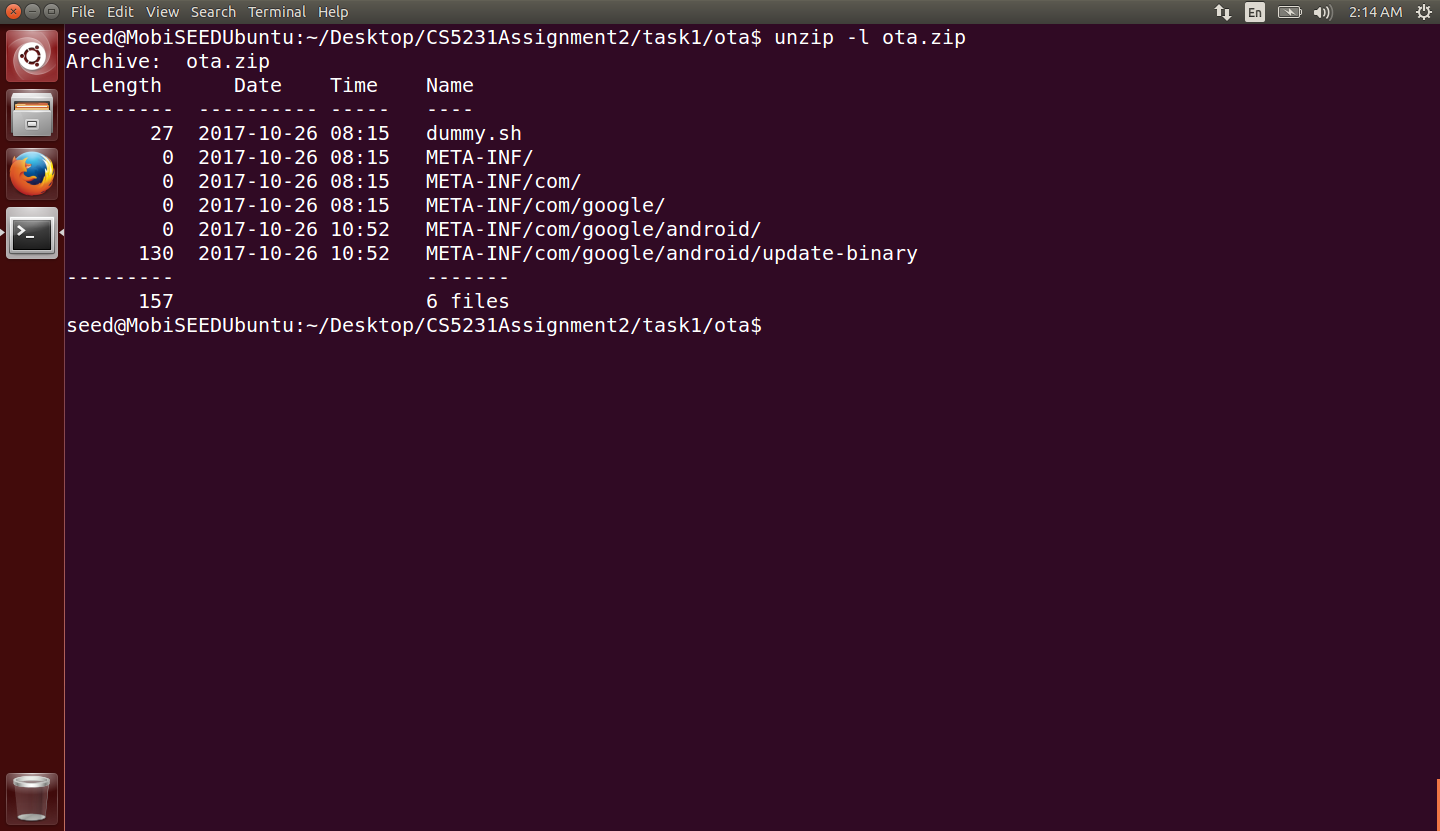
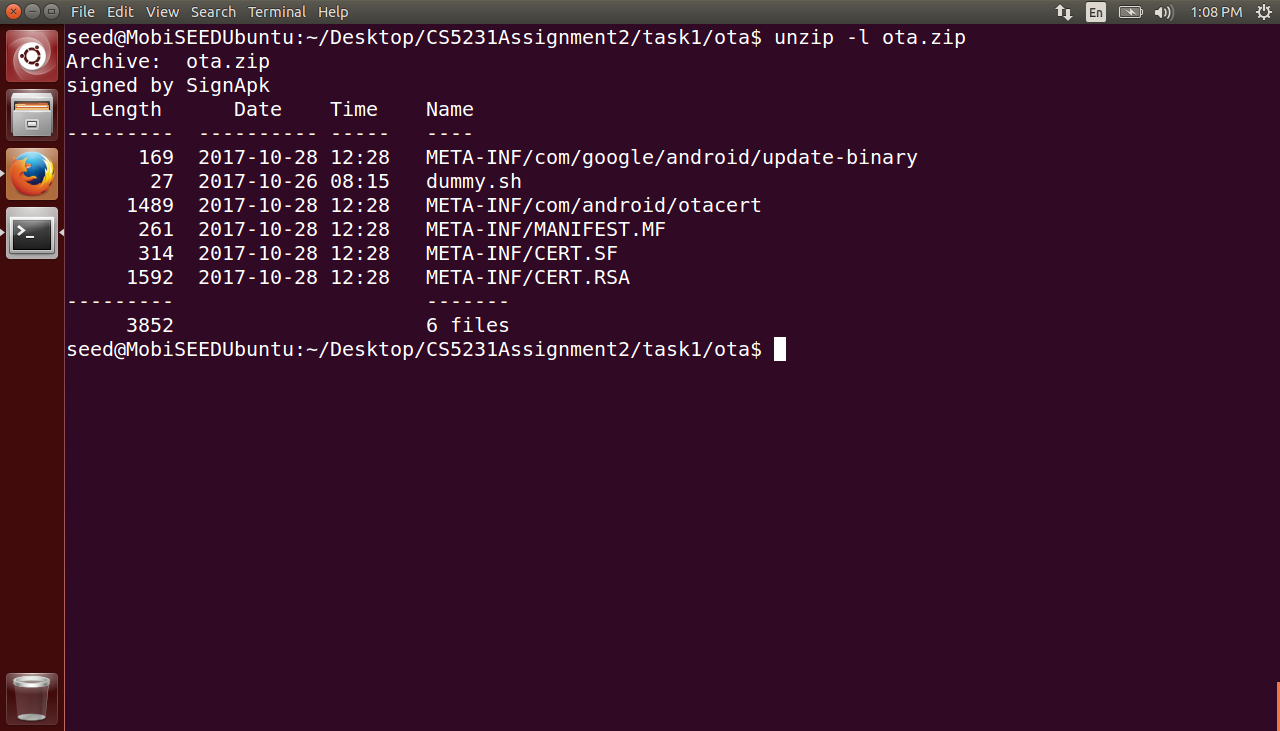
done task 2 and 3 report

Changed region(s): [[0.0, 0.0, 0.7812, 1.0], [0.8125, 0.0, 1.0, 0.0301]]

diff --git a/tanyiyan-a0127051-cs5231-assignment-2-report.md b/tanyiyan-a0127051-cs5231-assignment-2-report.md
@@ -21,20 +21,23 @@ In addition, the state of the bootloader may also be different. In an actual And
 
 > Identify which component in the signature verification process is problematic and explain why is it so. (10 Marks)
 
+https://source.android.com/devices/tech/ota/sign_builds
+
+> Update packages received from the main system are typically verified twice: once by the main system, using the RecoverySystem.verifyPackage() method in the android API, and then again by recovery. The RecoverySystem API checks the signature against public keys stored in the main system, in the file /system/etc/security/otacerts.zip (by default). Recovery checks the signature against public keys stored in the recovery partition RAM disk, in the file /res/keys.
+
+one of the checks not working?
+scp?
+
 ### Verifying our custom OTA file
 
 > Show and explain how the OTA update service can be made to verify our custom ota file.
 
 ### Structure of OTA file
 
-> **NOTE: may change after doing signature verification.** Show the structure of OTA file.
-
 ![](task1.3_ota_file_structure.png)
 *Figure 1. Structure of OTA file in task 1*
 
 ### Dummy file within the Android system
-
-> Show that the dummy file is created within the Android system.
 
 ![](task1.4_dummy_file.png)
 *Figure 2. dummy file created within Android system for task 1*
@@ -42,8 +45,6 @@ In addition, the state of the bootloader may also be different. In an actual And
 ## Task 2
 
 ### Structure of OTA file
-
-> **NOTE: may change after doing signature verification.** Show the structure of OTA file.
 
 ![](task2.1_ota_file_structure.png)
 *Figure 3. Structure of OTA file in task 2*
@@ -53,24 +54,26 @@ In addition, the state of the bootloader may also be different. In an actual And
 ![](task2.2_dummy2_file.png)
 *Figure 4. dummy2 file created within Android system for task 2*
 
-### Differences between the dummy files are created in Task 1 and 2
+### Differences between the dummy files created in Task 1 and 2
 
-- file permissions
-- when it is created?? init vs app_process
-- contents LOL
+One difference between the dummy files created in Task 1 and 2 is when they are created. In task 1, the `dummy` file is created when the file `/system/etc/init.sh` is executed. In the `init.sh`, a command to run `dummy.sh` was added by me (via the OTA's update-binary using `sed`) and when this command to run `dummy.sh` is executed, the `dummy` file is created. On the other hand, the `dummy2` file is created when my wrapper program for `app_process` is executed (when the Android OS bootstraps its runtime). The wrapper program creates the `dummy2` file and then invokes the original `app_process` (which was renamed to `app_process_original`).
+
+Another difference between the dummy files is their permissions. For `dummy` that is created in task 1, the permissions is `-rw-rw-rw-`, as seen in Figure 2. In contrast, the permissions for `dummy2` in task 2 is `-rw-------`.  
+
+In addition, one trivial difference between the dummy files is their contents. `dummy` in task 1 contains "hello" whereas `dummy2` in task 2 is an empty file. 
 
 ## Task 3
 
 ### The root shell
 
-> Show that root shell can be obtained.
+After starting the client program `mysu`, the root shell is obtained. This can be seen in Figure 5. below.  
 
 ![](task3.1_root_shell.png)
 *Figure 5. The root shell obtained in task 3*
 
 ### File descriptors of the client and shell processes
 
-> Show that the client and shell processes share the same file descriptors.
+Figure 6. and Figure 7. shows the `/proc/<PID>/fd` of the client and the shell processes respectively. As seen in the figures, all the file descriptors point to `/dev/pts/0`.  
 
 ![](task3.2_client_fd.png)
 *Figure 6. File descriptors of client process*
